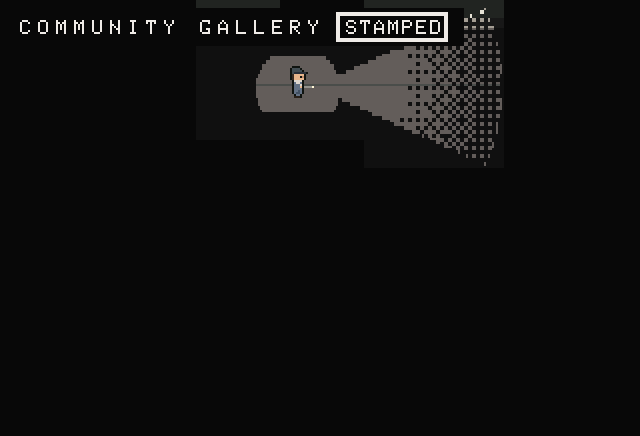
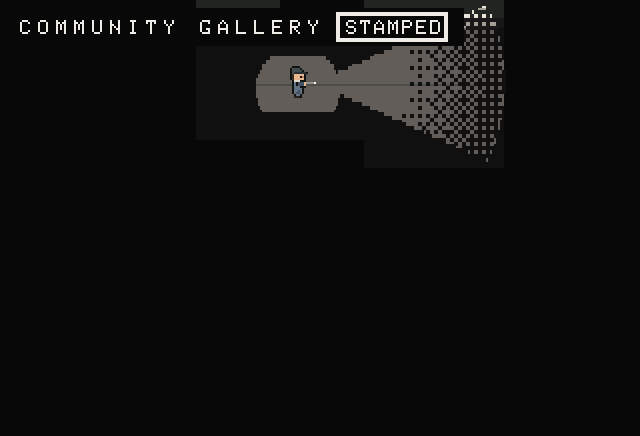
The janitor holds the flashlight up at the chest
From the side the flashlight hung from the hand at the hip. The near arm now
comes forward from the shoulder and the flashlight is held at the chest, where
the beam starts. The intro and "caught in the act" place their big flashlight
from sprites.hand() instead of their own numbers, and the intro's walk in is
empty-handed, arm down, until the flashlight comes off its hook.

diff --git a/CHANGELOG.md b/CHANGELOG.md
@@ -5,6 +5,15 @@ versions: [SemVer](https://semver.org/), as defined for this app in [docs/RELEAS
 
 ## [Unreleased]
 
+## [0.8.4] - 2026-11-22
+
+### Changed
+
+- The janitor holds the flashlight up. Seen from the side, the arm now comes
+  forward from the shoulder and the flashlight is held at the chest, where the
+  beam starts, instead of hanging from the hand at the hip. This shows in the
+  game, the intro (still empty-handed on the walk in) and "caught in the act".
+
 ## [0.8.3] - 2026-11-22
 
 ### Fixed
